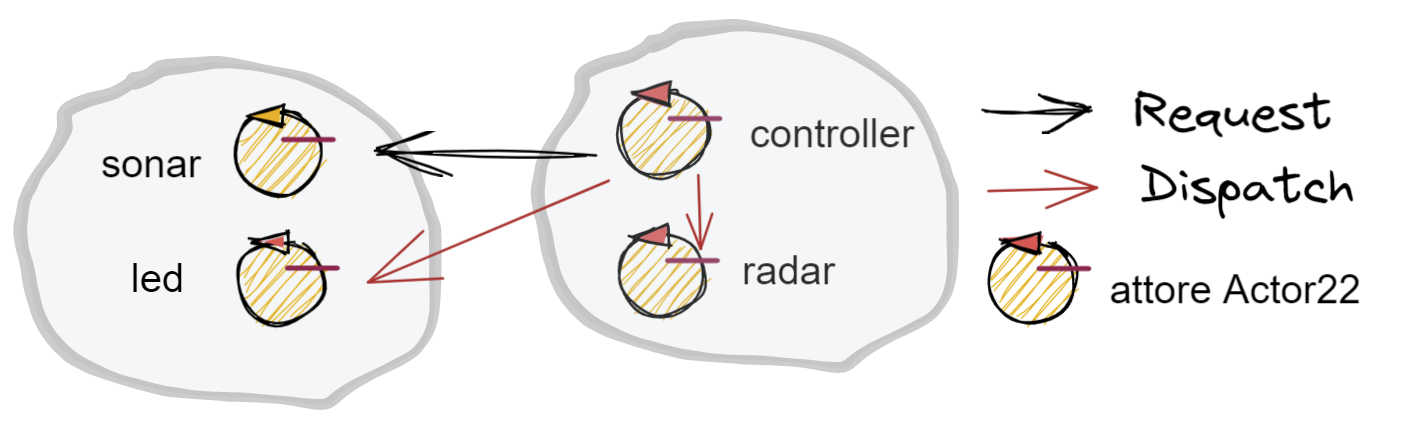
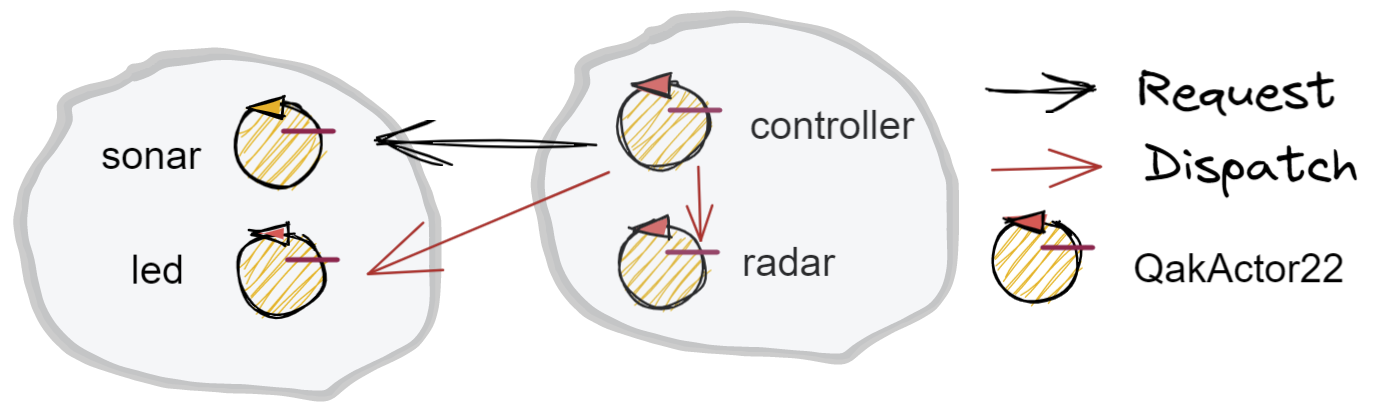
unibo.Actor22

Changed region(s): [[0.031, 0.029, 0.9935, 0.9855], [0.4347, 0.087, 0.4657, 0.1159]]

diff --git a/unibo.actor22/src/unibo/actor22/prova/ControllerActor.java b/unibo.actor22/src/unibo/actor22/prova/ControllerActor.java
@@ -17,7 +17,7 @@ protected IApplMessage getStateRequest ;
 
 	public ControllerActor(String name  ) {
 		super(name);
-		getStateRequest  = CommUtils.buildRequest(name,"ask", ApplData.reqLedState, ApplData.ledName);
+		getStateRequest  = ApplData.buildRequest(name,"ask", ApplData.reqLedState, ApplData.ledName);
  	}
 
 	@Override

diff --git a/it.unibo.issLabStart/userDocs/iss22Working/source/Attori.rst b/it.unibo.issLabStart/userDocs/iss22Working/source/Attori.rst
@@ -1,7 +1,7 @@
 .. role:: red 
 .. role:: blue 
 .. role:: remark
-
+.. role:: worktodo
 
 
 .. _BlokingQueue: https://www.baeldung.com/java-blocking-
@@ -177,7 +177,7 @@ QakActor22: handleMsg
 La classe ``QakActor22`` è astratta in quanto lascia alle classi specilizzate il compito di definire il metodo ``handleMsg`` 
 con cui un attore applicativo gestisce (interpretandoli) comandi e richieste di tipo ``it.unibo.kactor.IApplMessage``.
 
-Si noti che l'interfaccia ``IApplMessage`` è ora definita nel package ``it.unibo.kactor`` della libreria ``it.unibo.qakactor-2.6.jar``,
+Si noti che l'interfaccia c`IApplMessage`` è ora definita nel package ``it.unibo.kactor`` della libreria ``it.unibo.qakactor-2.6.jar``,
 così da riutilizzare il codice già sviluppato negli anni scorsi.
 
 +++++++++++++++++++++++++++++++++++++++
@@ -192,6 +192,13 @@ Nel caso del Led possiamo scrivere ``handleMsg`` come segue:
     if( msg.isRequest() ) elabRequest(msg);
     else elabCommand(msg);
   }
+
+Il metodo ``handleMsg`` viene invocato dalla infrastruttura di supporto quando (almeno) un messaggio è disponibile nella
+coda di ingresso associata all'attore.
+
+Nella implementazione attuale:
+
+:remark:`Tutti gli attori sono eseguiti all'interno di uno stesso Thread Java`
 
 +++++++++++++++++++++++++++++++++++++++++++++
 LedActor: esecuzione di comandi
@@ -362,5 +369,145 @@ Se un attore vuole inviare un messaggio a sè stesso può utilizzare il metodo `
   }
 
 
+------------------------------------------------
+UsingLedAndControllerOnPc
+------------------------------------------------
+
+Il programma ``UsingLedAndControllerOnPc`` del package ``unibo.actor22.prova`` del progetto ``unibo.actor22`` 
+relaiiza il sistema rappresentato nella figura che segue, costituito da un attore Controller che invia
+comandi e richieste a un attore Led.
 
 
+.. image:: ./_static/img/Radar/ControllerLedActorLocal.PNG 
+    :align: center
+    :width: 60%
+
+La configurazione del sistema si riduce alla creazione dei due attori, mentre l'esecuzione si attiva inviando un dispatch al Controller:
+
+.. code:: java
+
+  protected void configure() {
+    new LedActor( ApplData.ledName );
+    new ControllerActor( ApplData.controllerName );
+  }
+  protected void execute() {
+    Qak22Util.sendAMsg( ApplData.activateCrtl );
+  } 
+
+Per comprendere (e poi progettare) il comportamento del sistema, si tenga conto dei seguenti **vincoli**:
+
+:remark:`Tutti gli attori vengono eseguiti all'interno di un unico Thread`
+
+Pertanto, affinchè ogni attore possa essere eseguito e affinchè un attore possa elaborare un altro messaggio:
+
+:remark:`Un attore deve cedere il controllo`
+
+In altre parole, solo quando il metodo **handleMsg termina** restituendo il controllo alla infrastruttura che lo ha invocato,
+si apre la possibilità che altri attori possano essere eseguiti e che l'attore stesso possa elaborare un altro messaggio.
+
+
+
++++++++++++++++++++++++++++++++++++++++++
+ControllerActor
++++++++++++++++++++++++++++++++++++++++++
+
+
+Al momento della costruzione, ControllerActor prepara un messaggio di richiesta sullo stato del Led
+
+.. code:: java
+
+  public class ControllerActor extends QakActor22{
+  protected int numIter = 0;
+  protected IApplMessage getStateRequest ;
+
+  public ControllerActor(String name  ) {
+    super(name);
+    getStateRequest  = 
+      ApplData.buildRequest(name,"ask", ApplData.reqLedState, ApplData.ledName);
+    }
+
+La gestione dei messaggi del ``ControllerActor`` riguarda i seguenti messaggi:
+
+- il comando di attivazione ``ApplData.activateCrtl``  
+- la risposta ad ua sua richiesta al Led sullo stato
+
+.. code:: java
+
+	@Override
+	protected void handleMsg(IApplMessage msg) {  
+		if( msg.isReply() ) elabAnswer(msg);
+		else elabCmd(msg) ;	
+ 	}
+	
+	protected void elabCmd(IApplMessage msg) {
+		String msgCmd = msg.msgContent();
+		switch( msgCmd ) {
+			case ApplData.cmdActivate : {
+				doControllerWork();
+	 			break;
+			}
+			default:break;
+		}		
+	}
+
+%%%%%%%%%%%%%%%%%%%%%%%%%%%%%%%%%%%%%%%
+ControllerActor: comportamento
+%%%%%%%%%%%%%%%%%%%%%%%%%%%%%%%%%%%%%%%
+
+Alla ricezione del messaggio di attivazione, il ``ControllerActor`` esegue il primo passo della sua BusinessLogic
+inviando al Led un comando di accensione o spegnimento  
+seguito da una richiesta sullo stato del Led;  poi cede il controllo.
+
+.. code:: java
+
+  protected void doControllerWork() {
+    if( numIter++ < 5 ) {
+      if( numIter%2 == 1)  forward( ApplData.turnOnLed ); //accesione
+      else forward( ApplData.turnOffLed ); //spegnimento
+      request(getStateRequest);
+    }else	forward( ApplData.turnOffLed );
+   }
+	
+All'arrivo della risposta del Led, il ``ControllerActor``  esegue un altro passo della sua BusinessLogic:
+
+.. code:: java
+
+  protected void elabAnswer(IApplMessage msg) {
+    CommUtils.delay(500);
+    doControllerWork();
+  }
+
+:worktodo:`WORKTODO: riprogettare il sistema inserendo un SonarActor`
+
+
+---------------------------------------------------
+Dal locale al distribuito
+---------------------------------------------------
+
+Ora che abbiamo esplorato i meccanismi-base del modello ad attori in ambiente locale, poniamoci il problema 
+di distribuire gli attori in nodi diversi.
+
+.. image:: ./_static/img/Radar/RadarSystemActor0.PNG 
+    :align: center
+    :width: 60%
+
++++++++++++++++++++++++++++++++++++++++++
+Progetto it.unibo.actorComm
++++++++++++++++++++++++++++++++++++++++++
+
+Questo progetto realizza una nuova versione del concetto di contesto introdotto in :ref:`Contesti-contenitori`
+con le seguenti caratteristiche:
+
+- utilizza una nuova versione del :ref:`ContextMsgHandler` **non memorizza più** (riferimenti a) POJO di tipo :ref:`IApplMsgHandler<IApplMsgHandler>`
+  ma fa riferimento ad attori di tipo ``QakActor22``  
+
+- è un :ref:`EnablerContext` che permette comunicazioni ``TCP/UDP`` con componenti ``QakActor22``  
+- dipende dalla libreria *it.unibo.qakactor-2.6*  e produce la libreria: **it.unibo.actorComm-1.1.jar**,  
+- definisce: 
+ 
+  .. code::  java
+
+     public interface Interaction2021  extends 
+        it.unibo.is.interfaces.protocols.IConnInteraction 
+        //libreria uniboInterfaces.jar
+     
